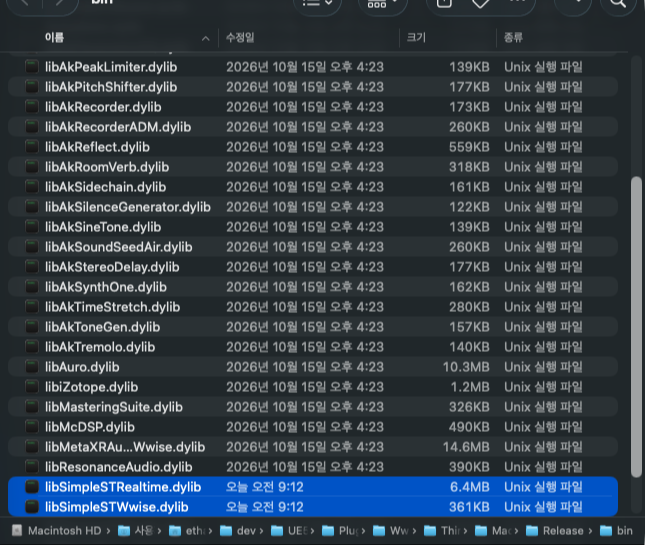
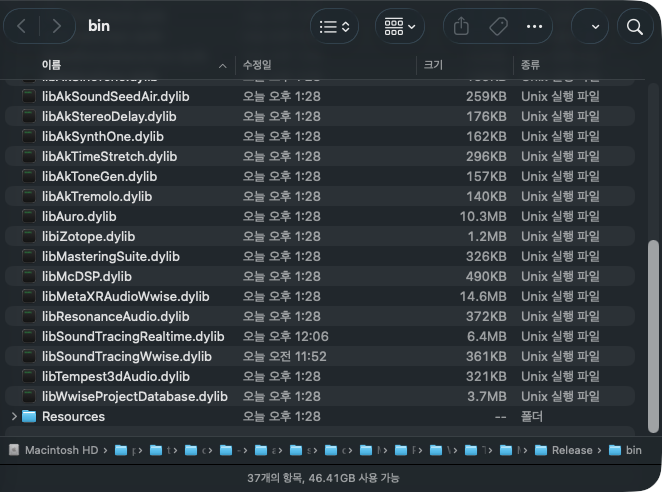
docs(img): UE Wwise 설치 결과·FMOD 플러그인 폴더 화면을 새 파일 이름(SoundTracing*)으로 재촬영

diff --git a/README.md b/README.md
@@ -63,4 +63,6 @@ FMOD Studio 2.04 마스터 버스 Listener·이벤트 Source·Source 덱·플러
 (AppKit으로 텍스트를 그린 PNG). 같은 형식이 필요하면 아무 PNG나 1280×720으로 덮어쓰면 된다.
 
 2026-11-17 이름 변경(SimpleST → SoundTracing / Sound-tracing)으로 개념도 4장(`fmod/structure`, `sdk/native-architecture`, `ue/integration-mode`,
-`web/architecture`)의 이름 글자를 새로 렌더링해 바꿨다. FMOD Studio·Wwise 저작툴 스크린샷은 새 표시 이름으로 재촬영 대상이다.
+`web/architecture`)의 이름 글자를 새로 렌더링해 바꿨다. Wwise 저작툴 3장(`bus-audio-objects`·`renderer-properties`·`source-settings-metadata`), FMOD Studio 3장(`studio-event-source`·`studio-source-params`·
+`studio-master-bus-listener`), Finder 2장(`fmod/studio-plugins-folder` = 실제 설치 폴더, `wwise/ue-install` = Wwise SDK Mac 라이브러리를 넣은 프로젝트 뼈대에
+`plugins/ue5/install.py`의 Wwise 설치를 실제로 돌린 결과)을 새 이름으로 다시 찍었다.
